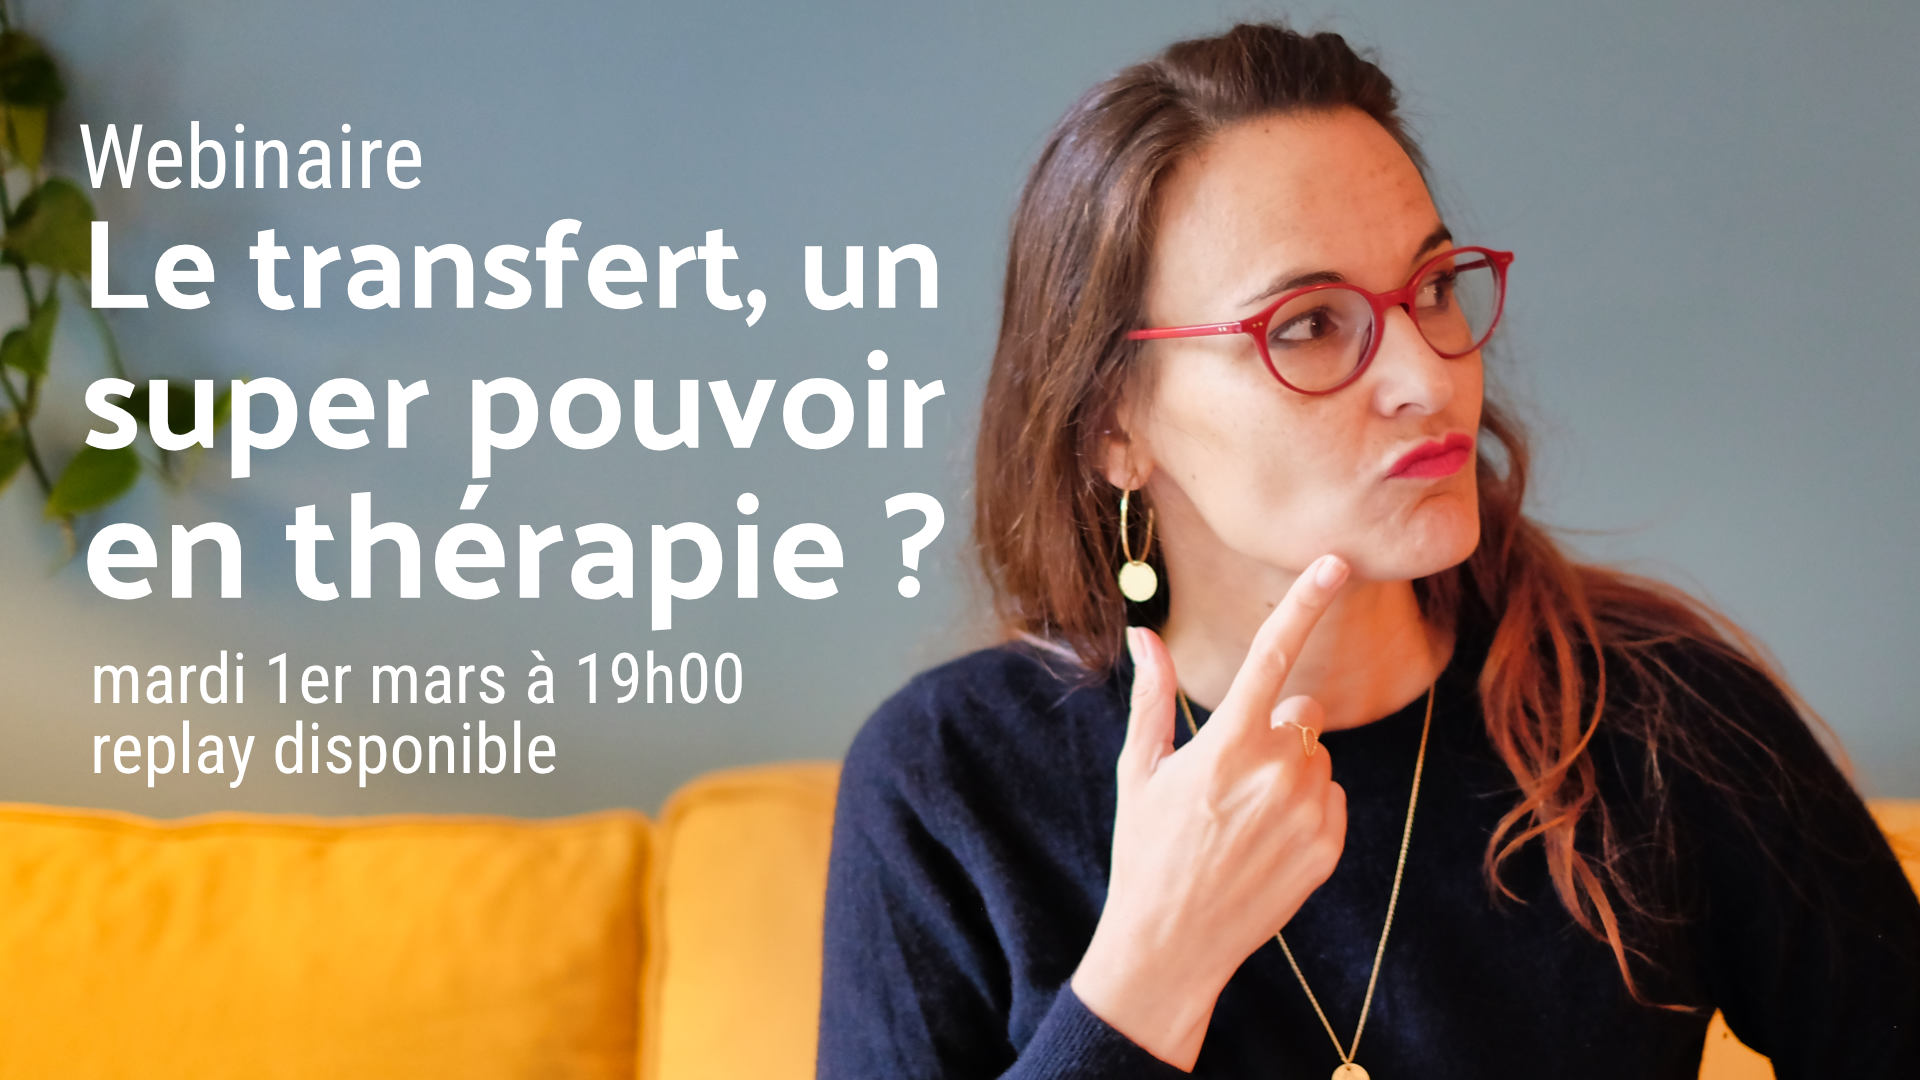
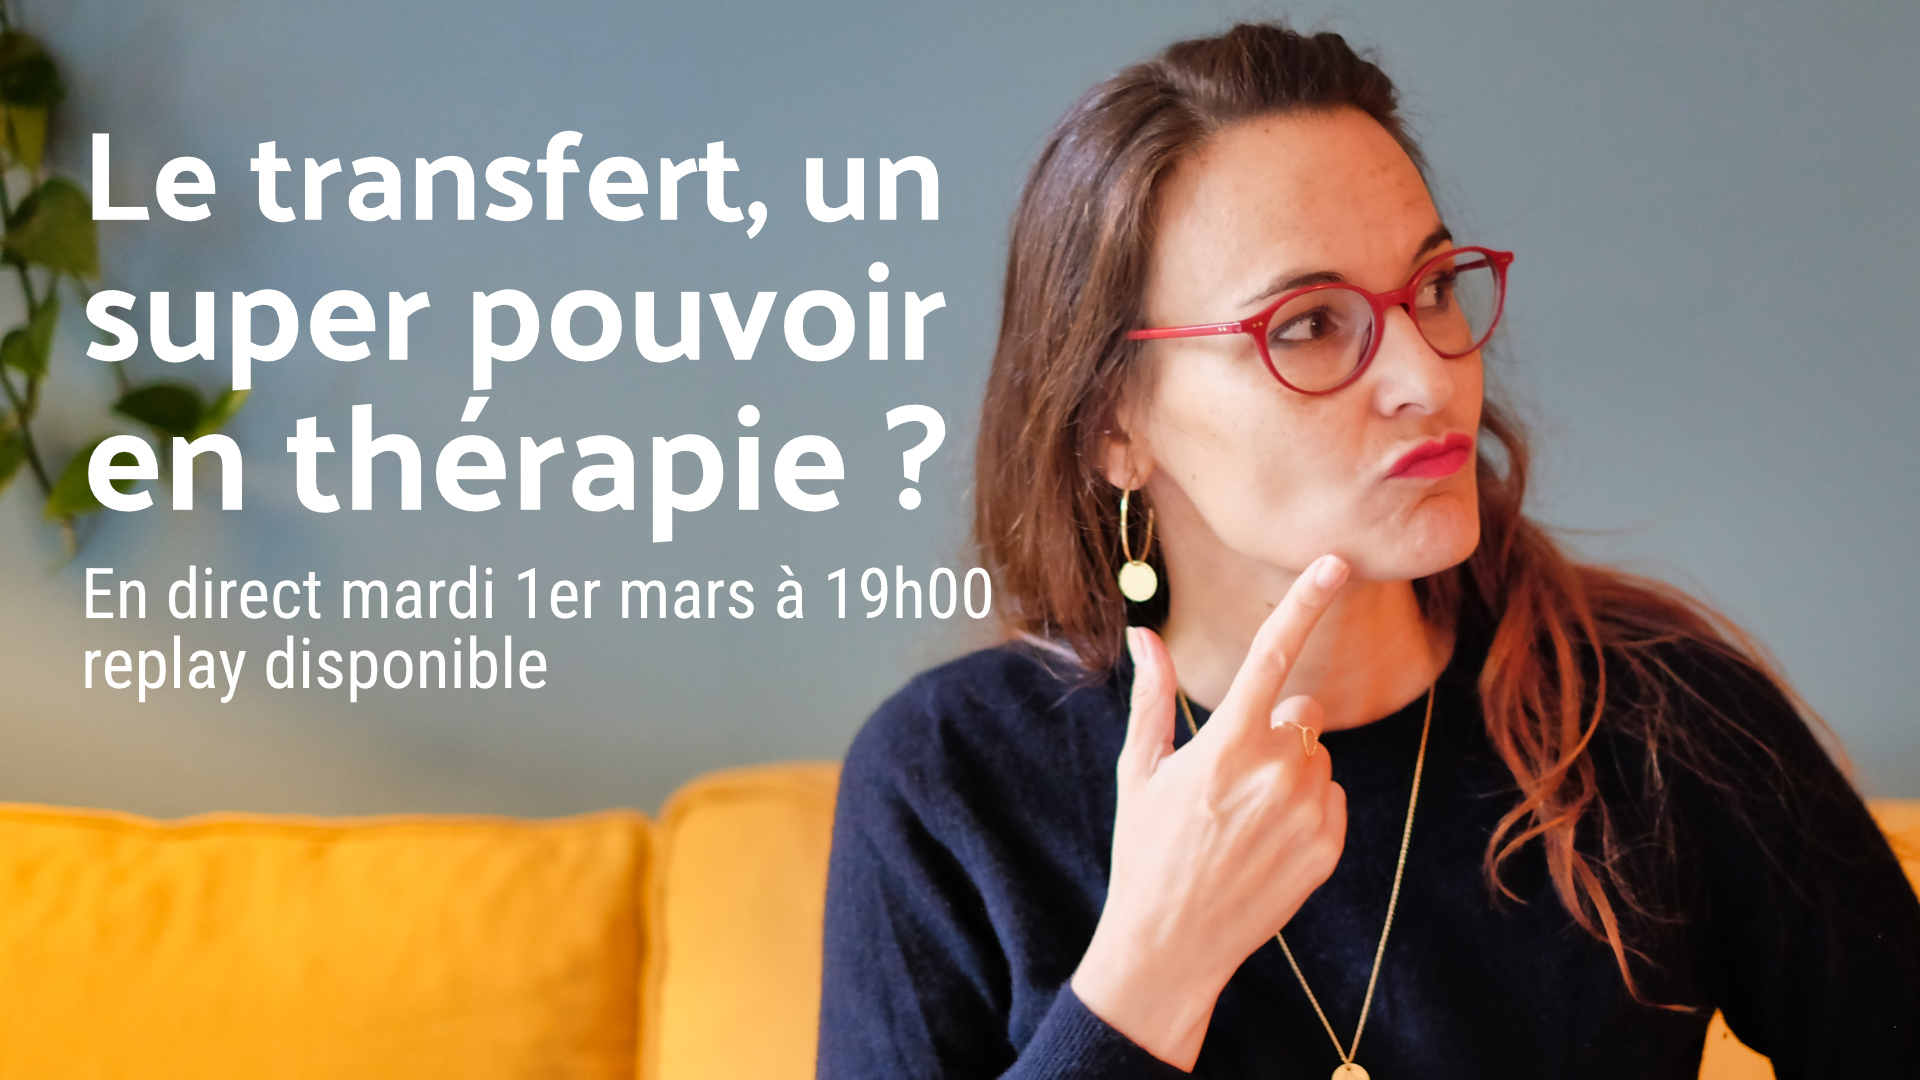
webinar changes

Changed region(s): [[0.0312, 0.1222, 0.5312, 0.7333]]

diff --git a/components/NavBar.vue b/components/NavBar.vue
@@ -152,10 +152,6 @@ export default {
           to: "/ateliers",
         },
         {
-          text: "Webinaire",
-          to: "/webinaire",
-        },
-        {
           text: "Lettre Psy",
           to: "/emails-prives",
         },

diff --git a/content/ateliers/atelier-en-live.md b/content/ateliers/atelier-en-live.md
@@ -5,7 +5,7 @@ image: /images/webinaires/webinaire-transfert.jpg
 imageAlt: Catherine explique quelque chose
 buyUrl: https://ctpsy.podia.com/webinaire-le-transfert-un-super-pouvoir-en-therapie
 colorText: white
-order: 1
+order: 7
 isDisplayed: true
 isOpen: true
 buyStart: true
@@ -16,17 +16,17 @@ discountTo: 0
 price: 70
 ---
 
-Dans ce premier webinaire mensuel, nous allons travailler sur ce concept parfois difficile à appréhender, le transfert. Il s'agit d'un atelier de travail à destination des psys qui souhaitent mieux le comprendre et éventuellement l'utiliser en séance mais aussi au patient(e)s en thérapie qui voudraient évaluer ce qu'il se passe pour elles et eux dans leur thérapie.
+Dans ce premier atelier en direct sur Zoom, nous allons travailler sur ce concept parfois difficile à appréhender, le transfert. Il s'agit d'un atelier de travail à destination des psys qui souhaitent mieux le comprendre et éventuellement l'utiliser en séance mais aussi au patient(e)s en thérapie qui voudraient évaluer ce qu'il se passe pour elles et eux dans leur thérapie.
 
-Ce webinaire, comme tous les contenus de Catherine la psy, sera un peu théorique et surtout pratique et concret, alimenté d'exemples et d'exercices personnels.
+Cet atelier en live, comme tous les contenus de Catherine la psy, sera un peu théorique et surtout pratique et concret, alimenté d'exemples et d'exercices personnels.
 
-**Ce webinaire se déroulera le mardi 1er mars de 19h à 20h30.**
+**Cet atelier en live se déroulera en direct le mardi 1er mars de 19h à 20h30.**
 
-Il y aura un replay pour les personnes qui n'auront pas pu être présentes et les participant(e)s qui souhaiteraient revoir le webinaire.
+Il y aura un replay pour les personnes qui n'auront pas pu être présentes et les participant(e)s qui souhaiteraient revoir l'atelier.
 
 ## programme
 
-Dans ce webinaire, on verra :
+Nous verrons :
 
 - les définitions du transfert : ce qu'il est et ce qu'il n'est pas
 - comment il se manifeste ?
@@ -39,6 +39,6 @@ Dans ce webinaire, on verra :
 - en tant que psy, faut-il en parler au patient ?
 - comment le travailler en tant que psy ?
 
-Pour illustrer les concepts vu pendant ce webinar, des jeux de rôles auront lieu.
+Pour illustrer les concepts vu pendant cet atelier en live, des jeux de rôles auront lieu.
 
 **Prix : 69€**
